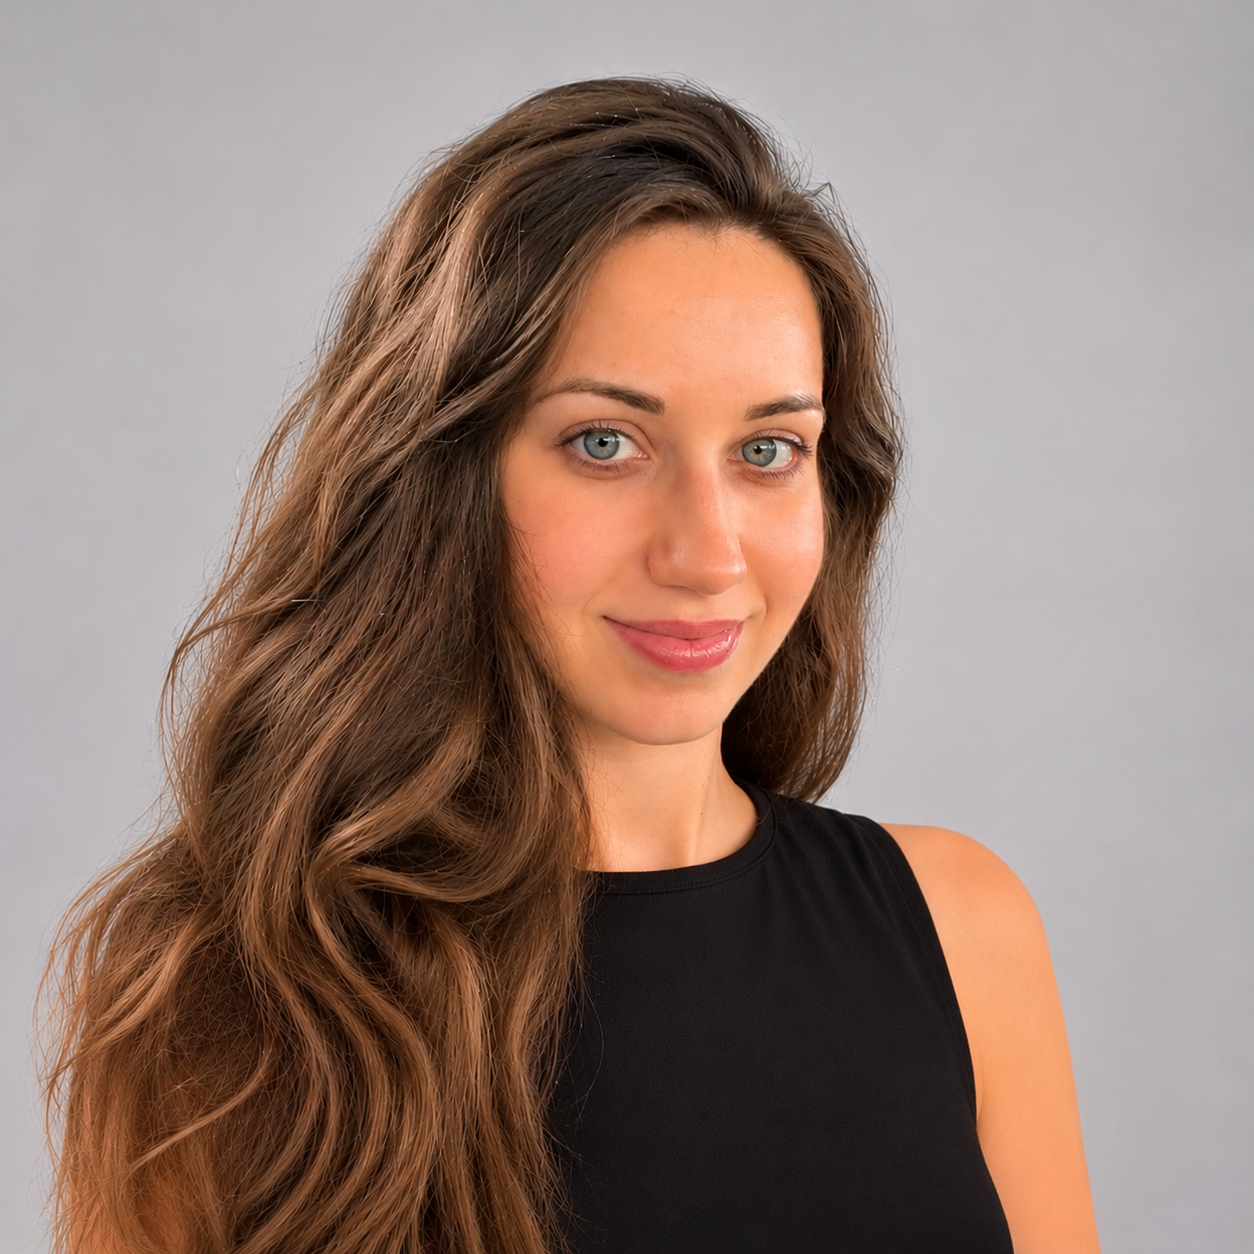
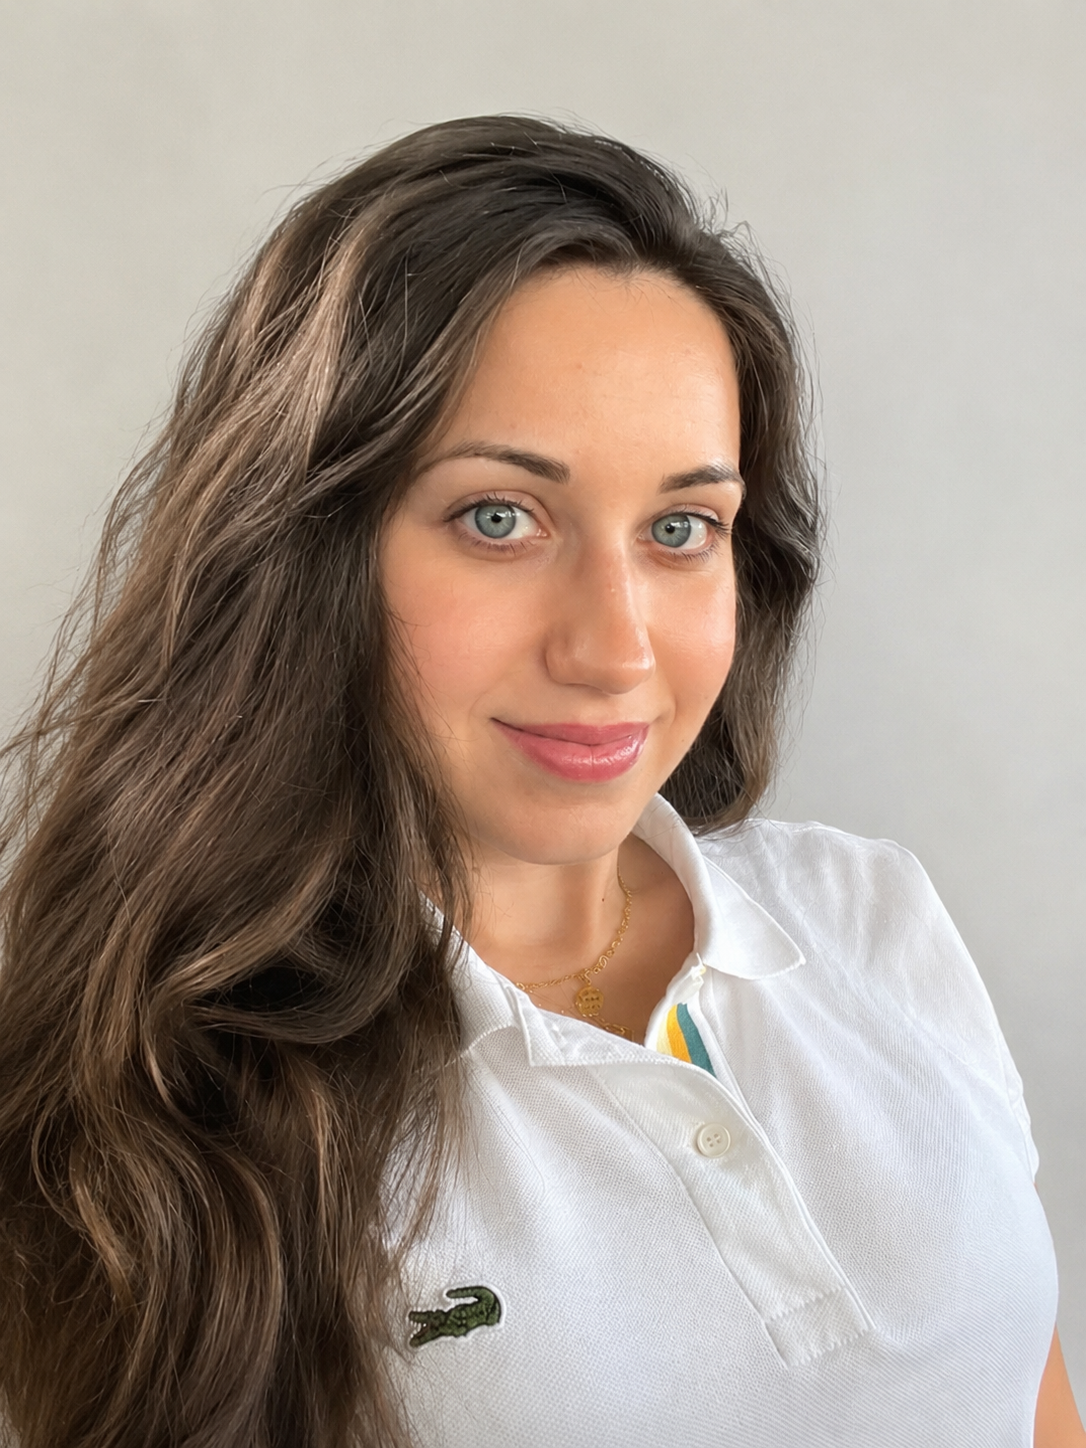
Move smaller updated portrait to About section

diff --git a/index.html b/index.html
@@ -27,7 +27,6 @@
           <p class="hero-description">I build responsive web applications with React, JavaScript and a foundation in UX/UI design. I’m based in Lisbon and looking for my first front-end role.</p>
           <div class="hero-actions"><a class="button" href="#work">View my projects <span aria-hidden="true">↘</span></a><a class="text-link" href="assets/ana-brito-cv.pdf" download="Ana-Brito-CV.pdf">Download CV <span aria-hidden="true">↓</span></a></div>
         </div>
-        <figure class="portrait"><img src="assets/ana-brito.png" alt="Ana Brito" width="1254" height="1254" fetchpriority="high"><figcaption>Ana Brito <span>Front-end &amp; UX/UI</span></figcaption></figure>
       </div>
       <div class="hero-foot"><span>HTML · CSS · JAVASCRIPT · REACT</span><span>Seeking junior front-end opportunities</span></div>
     </section>
@@ -69,7 +68,7 @@
         </details>
       </article>
     </section>
-    <section id="about" class="about wrap" aria-labelledby="about-title"><div><span class="eyebrow">A LITTLE ABOUT ME</span><h2 id="about-title">From paying attention<br>to detail, to building<br><em>with intention.</em></h2></div><div class="about-copy"><p>I’m Ana Brito, a junior front-end developer based in Lisbon with training in UX/UI design. I enjoy turning designs into websites that are clear and easy to use.</p><p>My training includes UX/UI design through Coursera and front-end development through Udemy. My recent work includes a personal finance dashboard and a kanban task manager, built with React and JavaScript.</p><p>I’m looking for a junior opportunity where I can contribute, learn from an experienced team and keep improving through real feedback.</p><p><a class="text-link" href="assets/ana-brito-cv.pdf" download="Ana-Brito-CV.pdf">Download my CV <span aria-hidden="true">↓</span></a></p><div class="skills"><h3>My current toolkit</h3><ul><li>HTML & semantic structure</li><li>CSS & responsive layouts</li><li>JavaScript & React</li><li>Git & GitHub</li><li>UX/UI fundamentals</li><li>API integration</li></ul></div></div></section>
+    <section id="about" class="about wrap" aria-labelledby="about-title"><div><span class="eyebrow">A LITTLE ABOUT ME</span><h2 id="about-title">From paying attention<br>to detail, to building<br><em>with intention.</em></h2><figure class="about-portrait"><img src="assets/ana-brito.png" alt="Ana Brito" width="1086" height="1448" loading="lazy"></figure></div><div class="about-copy"><p>I’m Ana Brito, a junior front-end developer based in Lisbon with training in UX/UI design. I enjoy turning designs into websites that are clear and easy to use.</p><p>My training includes UX/UI design through Coursera and front-end development through Udemy. My recent work includes a personal finance dashboard and a kanban task manager, built with React and JavaScript.</p><p>I’m looking for a junior opportunity where I can contribute, learn from an experienced team and keep improving through real feedback.</p><p><a class="text-link" href="assets/ana-brito-cv.pdf" download="Ana-Brito-CV.pdf">Download my CV <span aria-hidden="true">↓</span></a></p><div class="skills"><h3>My current toolkit</h3><ul><li>HTML & semantic structure</li><li>CSS & responsive layouts</li><li>JavaScript & React</li><li>Git & GitHub</li><li>UX/UI fundamentals</li><li>API integration</li></ul></div></div></section>
     <section id="contact" class="contact wrap" aria-labelledby="contact-title"><span class="eyebrow">LET’S CONNECT</span><div class="contact-row"><h2 id="contact-title">Good work starts<br>with a conversation<span>.</span></h2><a class="button" href="mailto:ana_brito11@hotmail.com">Let’s talk <span aria-hidden="true">↗</span></a></div><p>Based in Lisbon · Seeking junior front-end opportunities</p>
       <p><a href="mailto:ana_brito11@hotmail.com">Email</a> · <a href="https://www.linkedin.com/in/ana-brito-68a2121aa/" target="_blank" rel="noreferrer">LinkedIn<span class="sr-only"> (opens in a new tab)</span></a> · <a href="https://github.com/anabrito23" target="_blank" rel="noreferrer">GitHub<span class="sr-only"> (opens in a new tab)</span></a></p>
     </section>

diff --git a/style.css b/style.css
@@ -5,3 +5,10 @@
 @media(max-width:1000px){.hero-layout{grid-template-columns:minmax(0,1fr) 240px;gap:40px}.portrait>img{height:300px}.hero h1{font-size:57px}.project-details{grid-template-columns:130px minmax(0,1fr)}.section-heading h2{font-size:25px}}
 @media(max-width:760px){.hero-layout{grid-template-columns:minmax(0,1fr) 190px;gap:25px}.portrait>img{height:250px}.portrait figcaption{flex-direction:column;gap:2px}.hero h1{font-size:45px;letter-spacing:-2px}.hero h1>span{letter-spacing:-2px}.hero-description{font-size:14px}.hero-actions{gap:18px}.project-cover{padding:20px 16px 0}.project-details{grid-template-columns:1fr;gap:8px;padding:24px}.case-study{margin-inline:24px}.project-title h3{font-size:32px}.section-heading{gap:18px}.section-heading>span{font-size:8px}.section-heading h2{font-size:23px}.cover-heading{font-size:8px;letter-spacing:1px}.cover-heading>span:last-child{font-size:9px}}
 @media(max-width:600px){.site-header{flex-wrap:wrap;gap:16px}nav{gap:18px;font-size:11px;flex-wrap:wrap}.nav-contact{display:inline}.hero{padding-top:28px}.hero-layout{grid-template-columns:1fr;gap:28px;margin-top:25px}.hero h1{font-size:47px;margin-bottom:20px}.hero-description{font-size:14px}.role-label{font-size:8px;letter-spacing:1.2px;margin-bottom:16px}.hero-actions{gap:24px;flex-wrap:wrap}.portrait{max-width:290px;width:100%;justify-self:center}.portrait>img{height:285px}.portrait figcaption{flex-direction:row}.hero-foot{margin-top:15px;padding-top:25px}.section-heading{align-items:flex-start;flex-direction:column;gap:10px;padding-bottom:22px}.section-heading h2{font-size:25px}.section-heading>span{font-size:8px}.project-cover{padding:16px 10px 0}.cover-heading{font-size:7px;letter-spacing:.7px;margin-bottom:14px}.cover-heading>span:last-child{font-size:8px}.project{margin-bottom:30px}.project-details{padding:20px}.project-title{align-items:flex-start;flex-direction:column;gap:7px}.project-title h3{font-size:32px}.project-title>span{font-size:20px}.project-summary>p{font-size:13px}.project-index{font-size:8px}.case-study{margin-inline:20px}.case-study summary{font-size:11px}.project-links{gap:10px}.project-links a{font-size:11px;padding-inline:13px}.about{padding:40px 0}.contact h2{font-size:34px}.contact>p:last-child{line-height:2.2}}
+
+/* A small portrait belongs with the biography; the opening stays focused on the work. */
+.hero-layout{display:block;max-width:900px}
+.hero-description{max-width:640px}
+.about-portrait{margin:28px 0 0;width:168px}
+.about-portrait img{display:block;width:168px;height:168px;object-fit:cover;object-position:50% 30%;border-radius:8px;background:#f4f5f3}
+@media(max-width:600px){.about-portrait{margin-top:22px;width:144px}.about-portrait img{width:144px;height:144px}}
